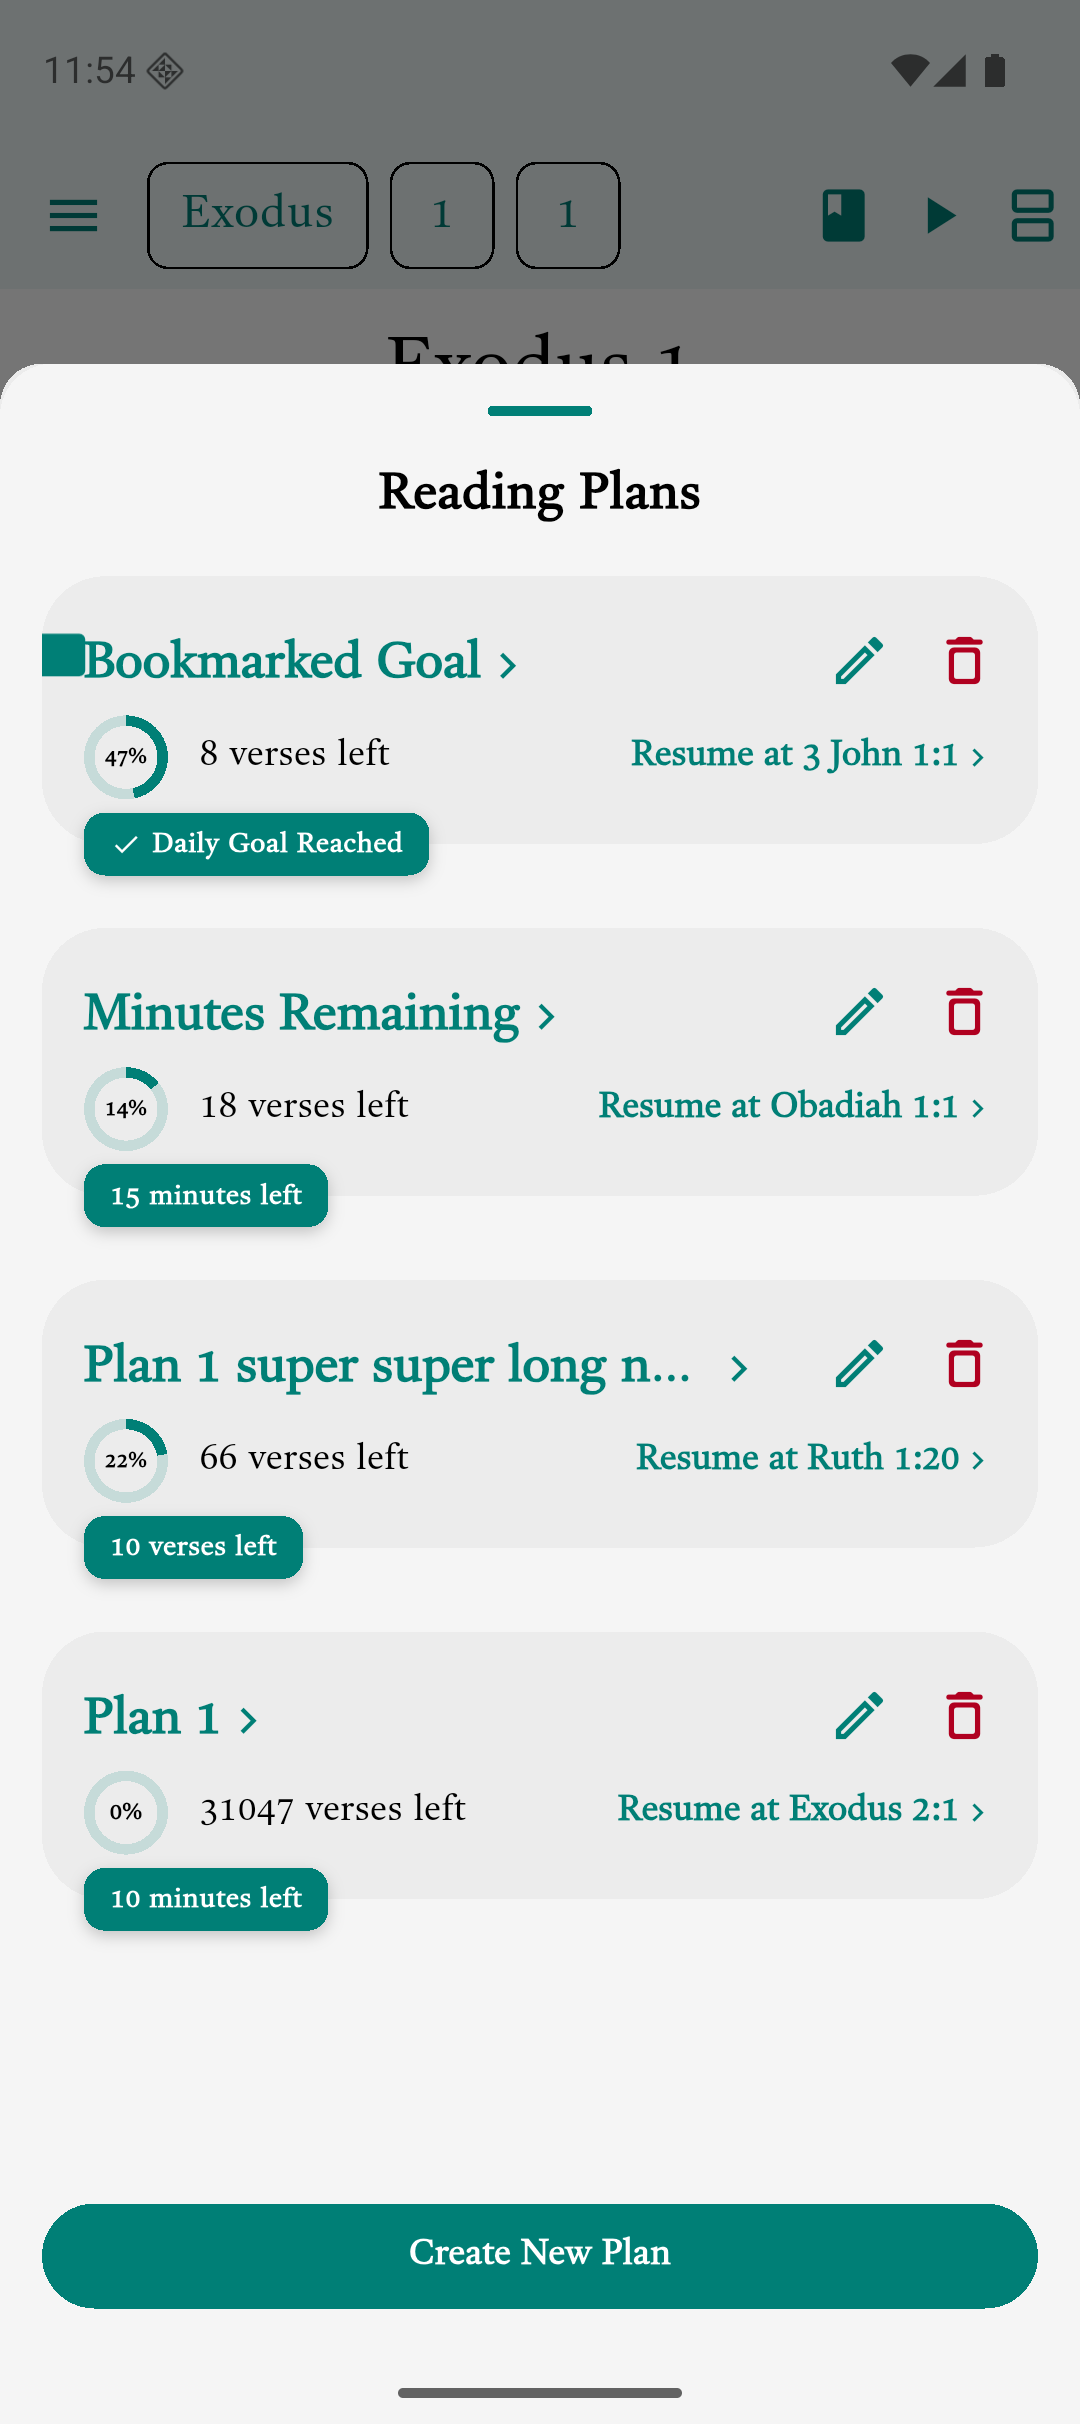
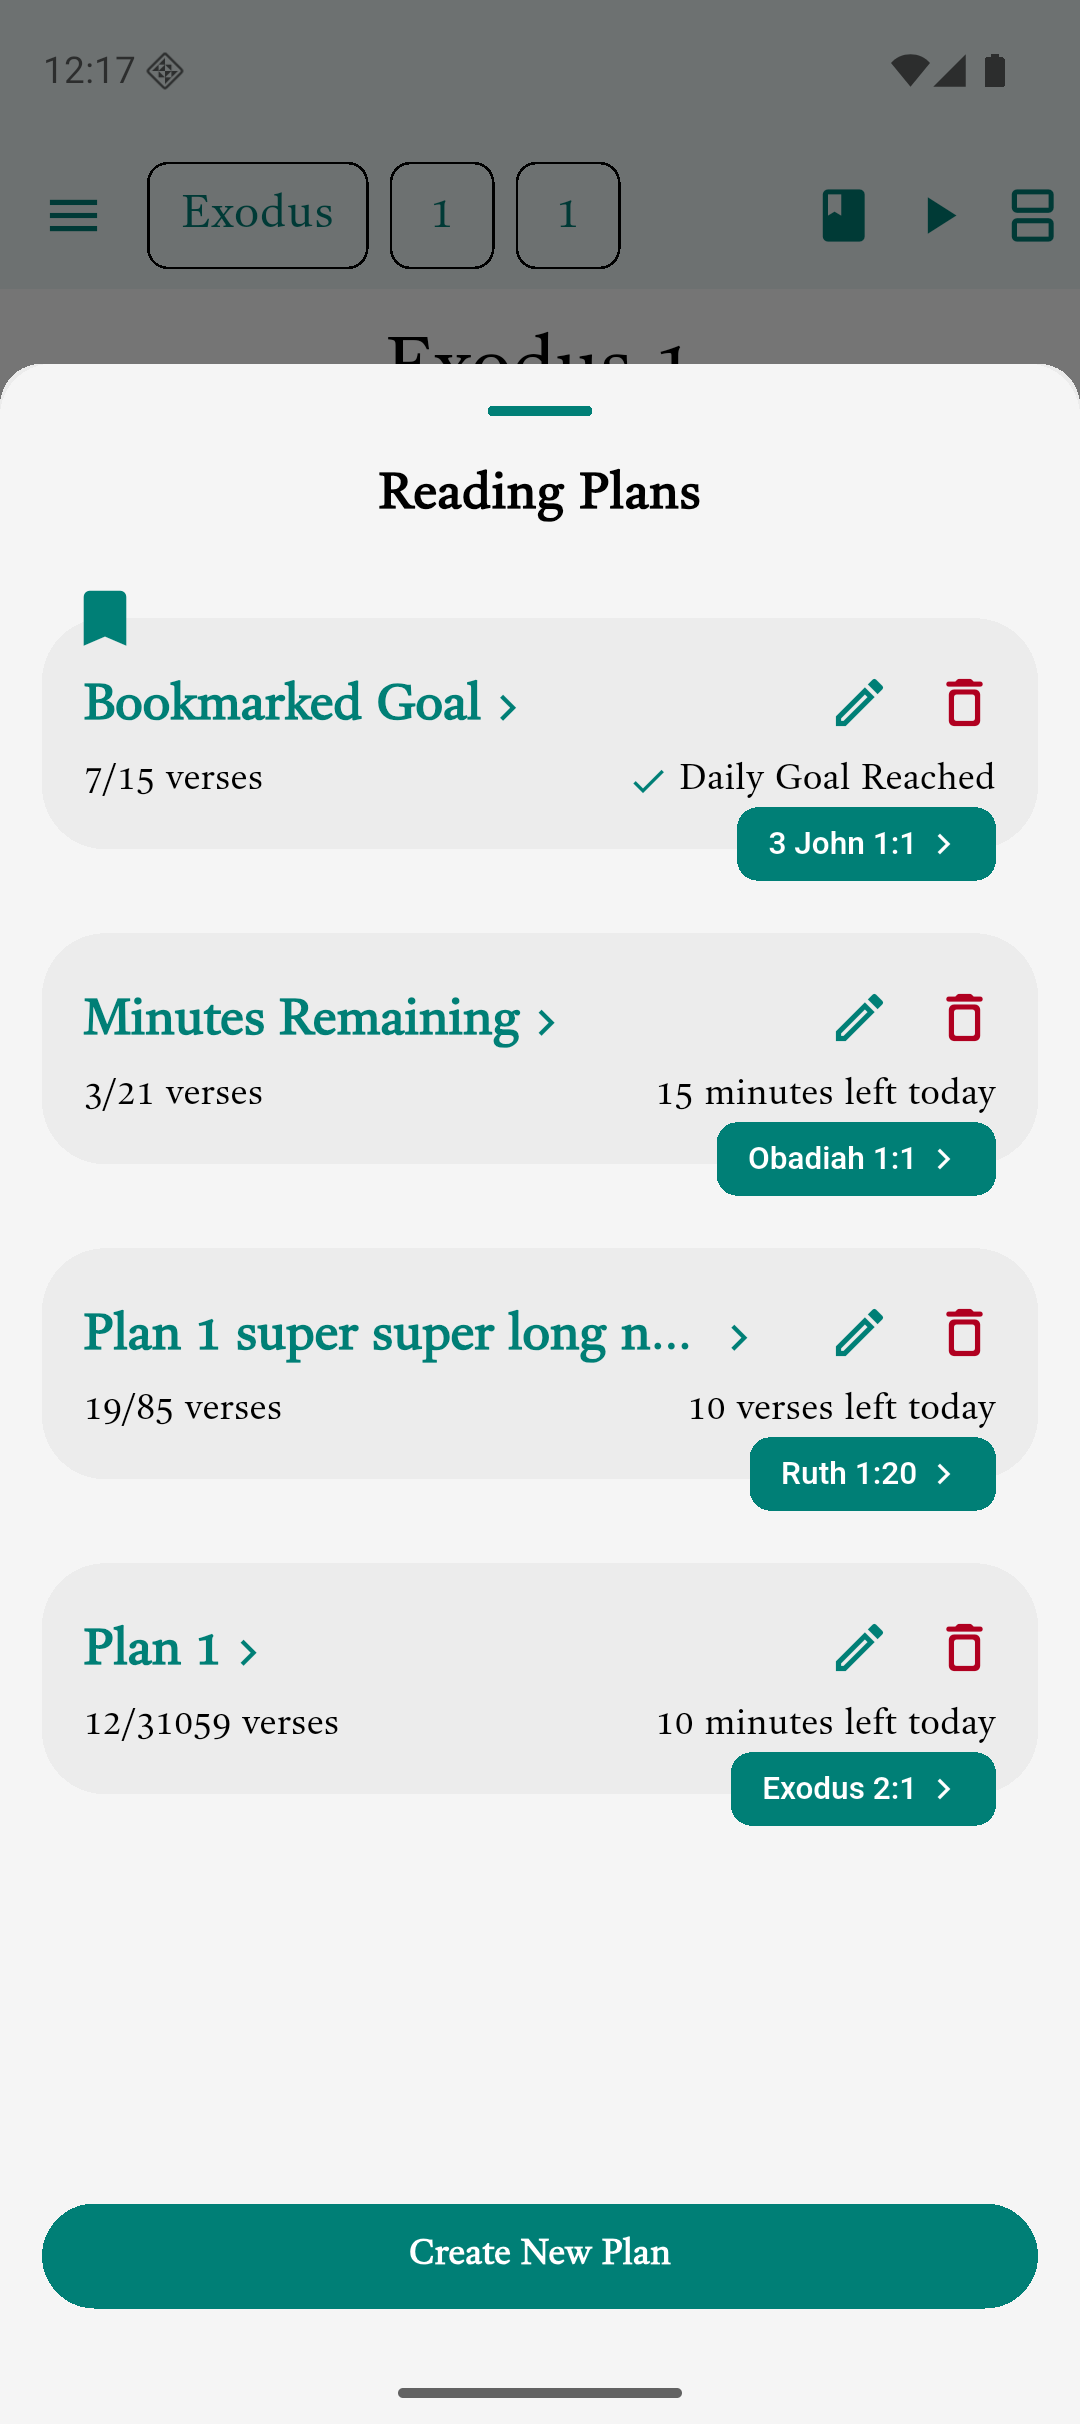
Rework reading plan card actions and goal text
Move the bookmark above the card aligned with the plan name, replace the resume text with a filled reference button on the right, show today's remaining goal in the former resume slot, and keep overall progress as read/total verses.

diff --git a/lib/reading_plan/reading_plan_card.dart b/lib/reading_plan/reading_plan_card.dart
@@ -5,7 +5,6 @@ import 'package:gbt/common/reference.dart';
 import 'package:gbt/l10n/app_localizations.dart';
 import 'package:gbt/l10n/book_names.dart';
 import 'package:gbt/reading_plan/delete_reading_plan_confirm_dialog.dart';
-import 'package:gbt/reading_plan/progress_circle.dart';
 import 'package:gbt/reading_plan/rs_model.dart';
 
 class ReadingPlanCard extends StatelessWidget {
@@ -59,7 +58,7 @@ class ReadingPlanCard extends StatelessWidget {
                     spacing: 16,
                     children: [
                       Flexible(child: _overallProgress(context)),
-                      Flexible(child: _resumeButton(context)),
+                      Flexible(child: _todayGoalProgress(context)),
                     ],
                   ),
                 ],
@@ -67,8 +66,8 @@ class ReadingPlanCard extends StatelessWidget {
             ),
           ),
           if (plan.readingPlan.isBookmarked)
-            Positioned(left: -8, top: 16, child: _bookmarkRibbon(context)),
-          Positioned(left: 16, bottom: -12, child: _dailyGoalLabel(context)),
+            Positioned(left: 10, top: -14, child: _bookmarkRibbon(context)),
+          Positioned(right: 16, bottom: -12, child: _resumeButton(context)),
         ],
       ),
     );
@@ -77,14 +76,15 @@ class ReadingPlanCard extends StatelessWidget {
   Widget _bookmarkRibbon(BuildContext context) {
     final colorScheme = Theme.of(context).colorScheme;
 
-    return Transform.rotate(
+    return Icon(
+      Icons.bookmark,
       key: ValueKey('plan-bookmark-ribbon-${plan.readingPlan.id}'),
-      angle: math.pi / 2,
-      child: Icon(Icons.bookmark, color: colorScheme.primary, size: 28),
+      color: colorScheme.primary,
+      size: 28,
     );
   }
 
-  Widget _dailyGoalLabel(BuildContext context) {
+  Widget _todayGoalProgress(BuildContext context) {
     final l10n = AppLocalizations.of(context)!;
     final colorScheme = Theme.of(context).colorScheme;
     final today = plan.todayProgress;
@@ -100,36 +100,24 @@ class ReadingPlanCard extends StatelessWidget {
         ? l10n.versesLeft(math.max(remaining, 0))
         : l10n.minutesLeft(math.max(remaining, 0));
 
-    return Container(
+    return Row(
       key: ValueKey('plan-daily-goal-${plan.readingPlan.id}'),
-      padding: const EdgeInsets.symmetric(horizontal: 10, vertical: 4),
-      decoration: BoxDecoration(
-        color: colorScheme.primary,
-        borderRadius: BorderRadius.circular(8),
-        boxShadow: [
-          BoxShadow(
-            color: colorScheme.shadow.withValues(alpha: 0.2),
-            blurRadius: 4,
-            offset: const Offset(0, 2),
-          ),
-        ],
-      ),
-      child: Row(
-        mainAxisSize: MainAxisSize.min,
-        spacing: 4,
-        children: [
-          if (goalReached)
-            Icon(Icons.check, color: colorScheme.onPrimary, size: 12),
-          Text(
+      mainAxisSize: MainAxisSize.min,
+      mainAxisAlignment: MainAxisAlignment.end,
+      spacing: 4,
+      children: [
+        if (goalReached)
+          Icon(Icons.check, color: colorScheme.primary, size: 16),
+        Flexible(
+          child: Text(
             label,
-            style: TextStyle(
-              color: colorScheme.onPrimary,
-              fontSize: 11,
-              fontWeight: FontWeight.w600,
-            ),
+            maxLines: 1,
+            overflow: TextOverflow.ellipsis,
+            textAlign: TextAlign.end,
+            style: const TextStyle(fontSize: 14, fontWeight: FontWeight.w500),
           ),
-        ],
-      ),
+        ),
+      ],
     );
   }
 
@@ -195,33 +183,14 @@ class ReadingPlanCard extends StatelessWidget {
 
   Widget _overallProgress(BuildContext context) {
     final l10n = AppLocalizations.of(context)!;
-    final totalVerses = plan.totalVerses > 0 ? plan.totalVerses : 1;
-    final progress = plan.versesRead / totalVerses;
-    final versesLeft = math.max(plan.totalVerses - plan.versesRead, 0);
 
-    return Row(
-      mainAxisSize: MainAxisSize.min,
-      spacing: 12,
-      children: [
-        ProgressCircle(
-          percent: progress,
-          size: 32,
-          strokeWidth: 4,
-          fontSize: 9,
-        ),
-        Flexible(
-          child: Text(
-            l10n.versesLeft(versesLeft),
-            style: const TextStyle(fontSize: 14, fontWeight: FontWeight.w500),
-          ),
-        ),
-      ],
+    return Text(
+      '${plan.versesRead}/${plan.totalVerses} ${l10n.verses}',
+      style: const TextStyle(fontSize: 14, fontWeight: FontWeight.w500),
     );
   }
 
   Widget _resumeButton(BuildContext context) {
-    final l10n = AppLocalizations.of(context)!;
-    final colorScheme = Theme.of(context).colorScheme;
     final resumeTarget =
         plan.resumePosition ??
         Reference(
@@ -233,30 +202,22 @@ class ReadingPlanCard extends StatelessWidget {
     final resumeReference =
         '$bookName ${resumeTarget.chapter}:${resumeTarget.verse}';
 
-    return TextButton(
+    return FilledButton(
+      key: ValueKey('plan-resume-${plan.readingPlan.id}'),
       onPressed: onStartSession,
-      style: TextButton.styleFrom(
-        padding: EdgeInsets.symmetric(vertical: 8, horizontal: 0),
+      style: FilledButton.styleFrom(
+        padding: const EdgeInsets.symmetric(horizontal: 12, vertical: 6),
         minimumSize: Size.zero,
         tapTargetSize: MaterialTapTargetSize.shrinkWrap,
+        shape: RoundedRectangleBorder(borderRadius: BorderRadius.circular(8)),
+        textStyle: const TextStyle(fontSize: 12, fontWeight: FontWeight.w600),
       ),
       child: Row(
-        mainAxisAlignment: MainAxisAlignment.end,
+        mainAxisSize: MainAxisSize.min,
+        spacing: 2,
         children: [
-          Flexible(
-            child: Text(
-              l10n.resumeAtReference(resumeReference),
-              maxLines: 1,
-              overflow: TextOverflow.ellipsis,
-              textAlign: TextAlign.end,
-              style: TextStyle(
-                color: colorScheme.primary,
-                fontWeight: FontWeight.w600,
-                fontSize: 14,
-              ),
-            ),
-          ),
-          Icon(Icons.chevron_right, color: colorScheme.primary, size: 14),
+          Text(resumeReference),
+          const Icon(Icons.chevron_right, size: 16),
         ],
       ),
     );

diff --git a/test/reading_plan/reading_plan_panel_test.dart b/test/reading_plan/reading_plan_panel_test.dart
@@ -4,7 +4,6 @@ import 'package:gbt/l10n/app_localizations.dart';
 import 'package:gbt/reading_plan/reading_plan_card.dart';
 import 'package:gbt/reading_plan/reading_plan_panel.dart';
 import 'package:gbt/reading_plan/reading_plan_panel_view_model.dart';
-import 'package:gbt/reading_plan/progress_circle.dart';
 import 'package:gbt/reading_plan/rs_model.dart';
 import 'package:material_ui/material_ui.dart';
 
@@ -148,7 +147,7 @@ void main() {
 
       await pumpPanel(tester);
 
-      expect(find.text('7 verses left'), findsOneWidget);
+      expect(find.text('7 verses left today'), findsOneWidget);
     });
 
     testWidgets('shows the remaining minutes for today', (tester) async {
@@ -164,7 +163,7 @@ void main() {
 
       await pumpPanel(tester);
 
-      expect(find.text('12 minutes left'), findsOneWidget);
+      expect(find.text('12 minutes left today'), findsOneWidget);
     });
 
     testWidgets('shows a check and completion label when the goal is reached', (
@@ -191,7 +190,7 @@ void main() {
       );
     });
 
-    testWidgets('shows overall progress as a circle and verses left', (
+    testWidgets('shows overall progress as read over total verses', (
       tester,
     ) async {
       planService.plans = [
@@ -206,10 +205,7 @@ void main() {
 
       await pumpPanel(tester);
 
-      final circle = tester.widget<ProgressCircle>(find.byType(ProgressCircle));
-      expect(circle.percent, 0.66);
-      expect(circle.size, 32);
-      expect(find.text('34 verses left'), findsOneWidget);
+      expect(find.text('66/100 verses'), findsOneWidget);
       expect(find.text('66/100 verses · 66%'), findsNothing);
     });
   });
@@ -337,7 +333,21 @@ void main() {
       await tester.tap(find.text('Open plans'));
       await tester.pumpAndSettle();
 
-      await tester.tap(find.textContaining('Resume at'));
+      final resumeButton = find.byKey(const ValueKey('plan-resume-7'));
+      expect(resumeButton, findsOneWidget);
+      expect(
+        find.descendant(of: resumeButton, matching: find.text('Ruth 1:1')),
+        findsOneWidget,
+      );
+      expect(
+        find.descendant(
+          of: resumeButton,
+          matching: find.byIcon(Icons.chevron_right),
+        ),
+        findsOneWidget,
+      );
+
+      await tester.tap(resumeButton);
       await tester.pumpAndSettle();
 
       expect(sessionViewModel.startedPlanIds, [7]);

diff --git a/lib/reading_plan/reading_plan_panel.dart b/lib/reading_plan/reading_plan_panel.dart
@@ -106,7 +106,7 @@ class ReadingPlanPanelState extends State<ReadingPlanPanel> {
     }
 
     return ListView(
-      clipBehavior: Clip.none,
+      padding: const EdgeInsets.only(top: 16),
       children: viewModel.plans
           .map(
             (plan) => ReadingPlanCard(
